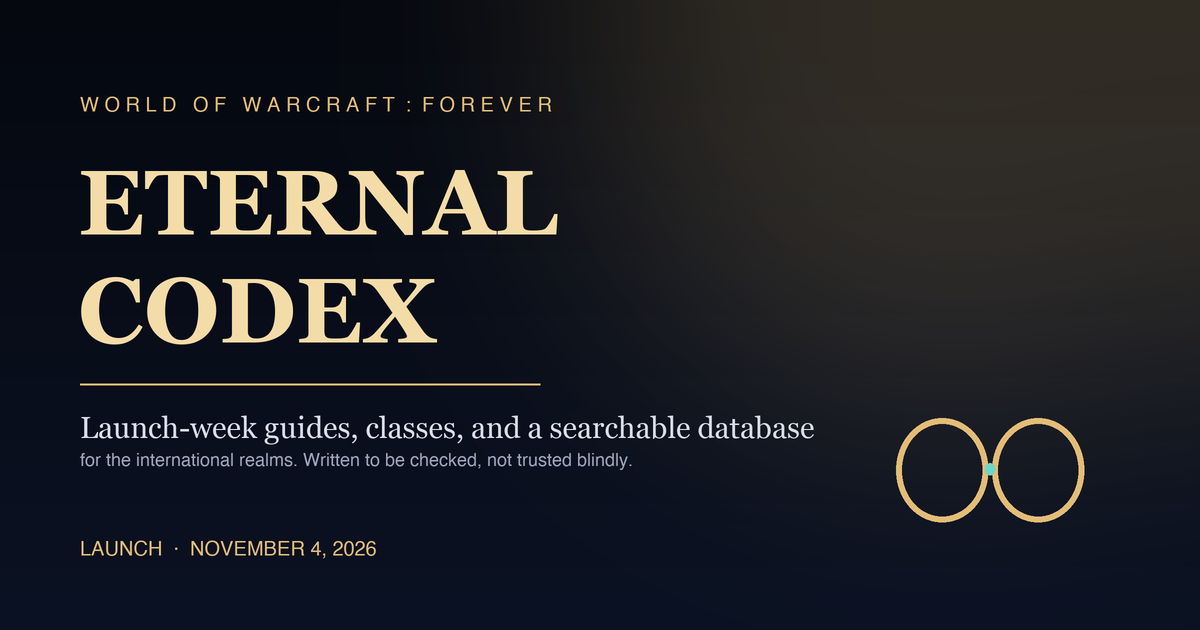
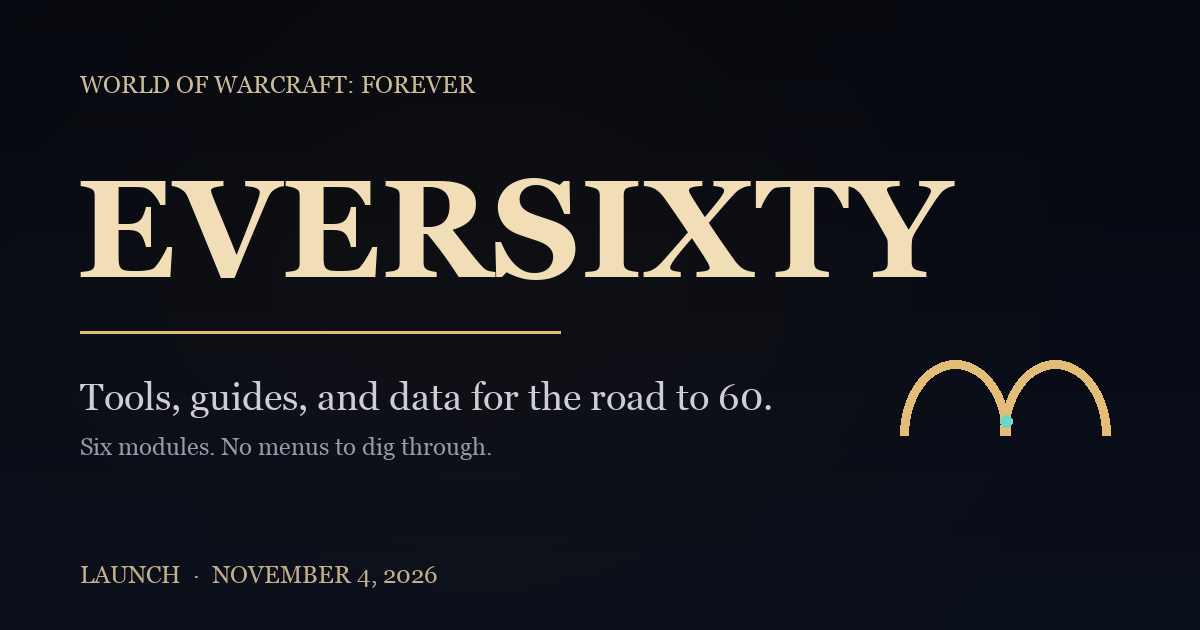
Rename site to Eversixty across brand, metadata, OG, and docs

diff --git a/src/app/about/page.tsx b/src/app/about/page.tsx
@@ -4,7 +4,7 @@ import Link from "next/link";
 export const metadata: Metadata = {
   title: "About & editorial standards",
   description:
-    "How Eternal Codex verifies World of Warcraft: Forever guides, what our confidence levels mean, and how to report a correction.",
+    "How Eversixty verifies World of Warcraft: Forever guides, what our confidence levels mean, and how to report a correction.",
   alternates: { canonical: "/about" },
 };
 
@@ -35,7 +35,7 @@ export default function AboutPage() {
             A guide site that shows its work
           </h1>
           <p className="mt-4 max-w-2xl text-sm leading-relaxed text-muted md:text-base">
-            Eternal Codex exists because launch week is the worst time to trust a
+            Eversixty exists because launch week is the worst time to trust a
             guide that does not say where its numbers came from. Every article
             here states its confidence level, its last update, and its sources.
           </p>
@@ -86,10 +86,10 @@ export default function AboutPage() {
             </p>
             <p className="mt-4 text-sm">
               <a
-                href="mailto:corrections@eternalcodex.example"
+                href="mailto:corrections@eversixty.example"
                 className="text-gold/90 transition-colors hover:text-gold-soft"
               >
-                corrections@eternalcodex.example
+                corrections@eversixty.example
               </a>{" "}
               <span className="text-xs text-muted">
                 (placeholder address — swap in the real inbox before launch)
@@ -126,7 +126,7 @@ export default function AboutPage() {
           <div>
             <h2 className="display text-xl text-parchment">Independence & legal</h2>
             <p className="mt-3 text-sm leading-relaxed text-muted">
-              Eternal Codex is an independent, fan-made resource. It is not
+              Eversixty is an independent, fan-made resource. It is not
               affiliated with or endorsed by Blizzard Entertainment. World of
               Warcraft and Blizzard Entertainment are trademarks of Blizzard
               Entertainment, Inc. The site keeps a visible fan-site disclaimer in

diff --git a/src/lib/site.ts b/src/lib/site.ts
@@ -1,13 +1,13 @@
 export const site = {
-  name: "Eternal Codex",
-  title: "Eternal Codex — Forever launch companion",
+  name: "Eversixty",
+  title: "Eversixty — A Forever launch companion",
   description:
-    "Six task-first modules for World of Warcraft: Forever: start plan, talent builds, gear checklists, dungeons, professions, and an XP calculator. Written for the international realms.",
+    "Tools, guides, and data for the road to 60 in World of Warcraft: Forever. Six task-first modules: start plan, talent builds, gear checklists, dungeons, professions, and an XP calculator.",
   url:
     process.env.NEXT_PUBLIC_SITE_URL ??
     (process.env.VERCEL_PROJECT_PRODUCTION_URL
       ? `https://${process.env.VERCEL_PROJECT_PRODUCTION_URL}`
-      : "https://eternalcodex.example"),
+      : "https://eversixty.example"),
   launchWindow: "November 4, 2026",
   lastSeed: "2026-10-26",
 };

diff --git a/src/components/Footer.tsx b/src/components/Footer.tsx
@@ -22,8 +22,8 @@ export function Footer() {
           <p className="display text-lg text-parchment">{site.name}</p>
           <p className="mt-3 max-w-sm text-sm leading-relaxed text-muted">
             {isZh
-              ? "为国际服玩家整理的开服指南与持续更新的资料库。没有付费墙，也不设门槛。"
-              : "Launch-week guides and a growing reference for World of Warcraft: Forever, written for players on the international realms. No paywalls, no gatekeeping."}
+              ? "为国际服玩家整理的《魔兽世界：Forever》开服工具、攻略与数据。没有付费墙，也不设门槛。"
+              : "Tools, guides, and data for the road to 60 in World of Warcraft: Forever. No paywalls, no gatekeeping."}
           </p>
           <p className="mt-4 text-xs text-muted/80">
             {isZh

diff --git a/src/app/page.tsx b/src/app/page.tsx
@@ -9,17 +9,17 @@ export default function HomePage() {
         <Link href="/" className="inline-flex items-center gap-4">
           <img
             src="/icon.svg"
-            alt="Eternal Codex logo"
+            alt="Eversixty logo"
             width={64}
             height={64}
             className="size-16 shrink-0 rounded-2xl"
           />
           <span>
             <h1 className="display block text-3xl tracking-wide text-parchment md:text-4xl">
-              Eternal Codex
+              Eversixty
             </h1>
             <span className="mt-1 block text-[11px] uppercase tracking-[0.28em] text-muted">
-              Forever · Classic+
+              A Forever companion
             </span>
           </span>
         </Link>

diff --git a/src/app/layout.tsx b/src/app/layout.tsx
@@ -35,7 +35,7 @@ export const metadata: Metadata = {
         url: "/og.png",
         width: 1200,
         height: 630,
-        alt: "Eternal Codex — launch-week guides and database for World of Warcraft: Forever",
+        alt: "Eversixty — tools, guides, and data for World of Warcraft: Forever",
       },
     ],
   },

diff --git a/README.md b/README.md
@@ -1,4 +1,4 @@
-# Eternal Codex
+# Eversixty
 
 Launch-week guides and a searchable reference for **World of Warcraft: Forever** (the Classic+ release, international realms), written for an English-speaking audience.
 
@@ -81,7 +81,7 @@ After the first deploy, submit `https://<domain>/sitemap.xml` to Google Search C
 
 ## Before launch
 
-- [ ] Swap `corrections@eternalcodex.example` for a real inbox
+- [ ] Swap `corrections@eversixty.example` for a real inbox
 - [ ] Replace the placeholder domain in `src/lib/site.ts` (or set the env var)
 - [ ] Add real verified item stats after the first in-game checks
 - [ ] Add hardcore ruleset content when it opens
